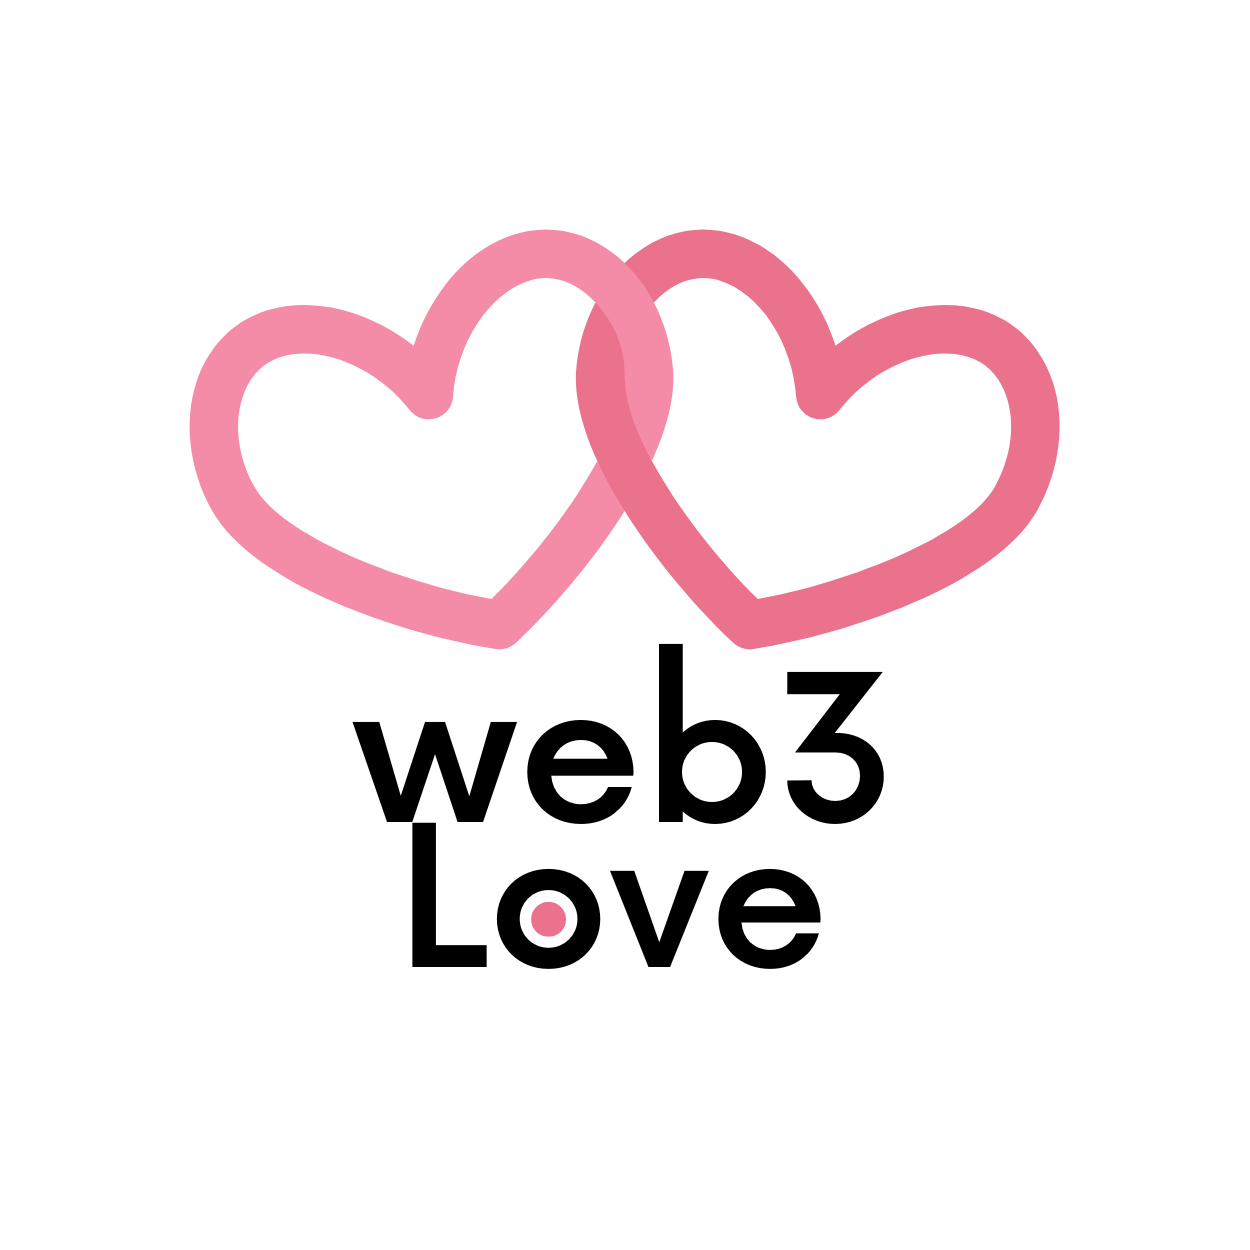
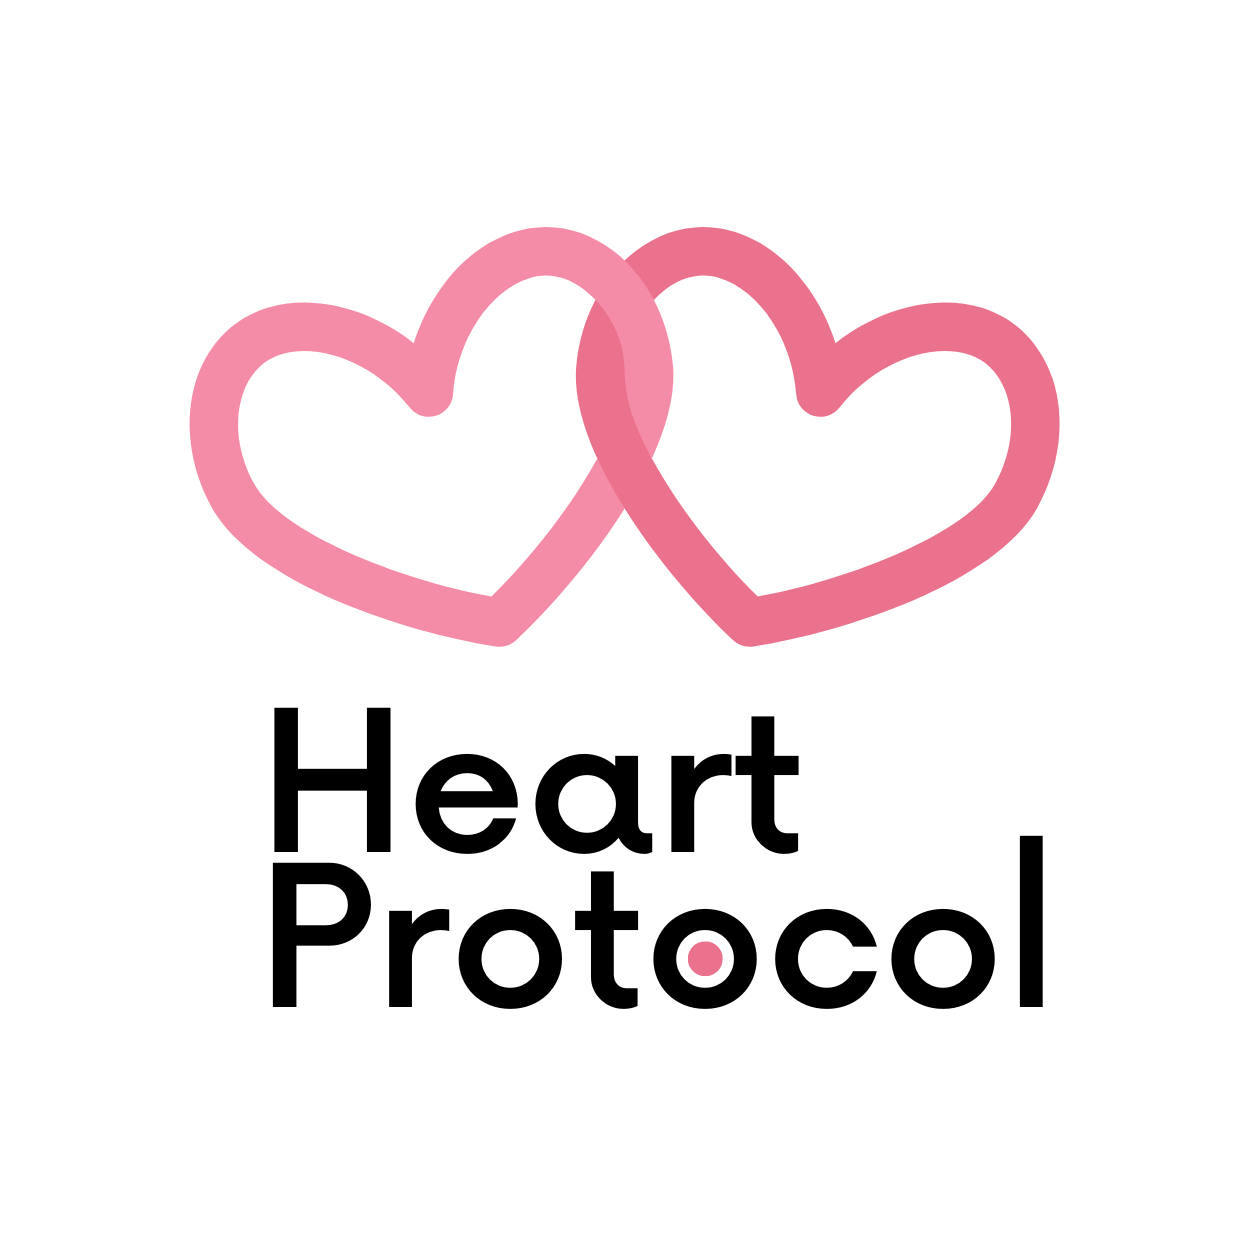
feat: updated rebrand

Changed region(s): [[0.2184, 0.4992, 0.8424, 0.8112]]

diff --git a/interface-nextjs-migrate/app/page.tsx b/interface-nextjs-migrate/app/page.tsx
@@ -2,10 +2,14 @@
 
 import React from 'react';
 import { Heart, Users, DollarSign } from 'lucide-react';
+import { useRouter } from 'next/navigation'
+
 
 const LandingPage = () => {
+  const router = useRouter()
+
   const handleGetStarted = () => {
-    window.location.href = '/app';
+    router.push('/app')
   };
 
   return (
@@ -13,7 +17,7 @@ const LandingPage = () => {
       <header className="text-center mb-12">
         <img src="./black.png" alt="Heart Protocol Logo" className="w-52 h-52 mx-auto mb-4" />
         {/* <h1 className="text-5xl font-bold text-purple-800 mb-4">Heart Protocol</h1> */}
-        <p className="text-xl text-purple-600">Web3-based Matchmaking Platform</p>
+        <p className="text-xl text-purple-600">Heart Protocol: Earn to Find Love</p>
       </header>
 
       <main className="max-w-4xl text-center">
